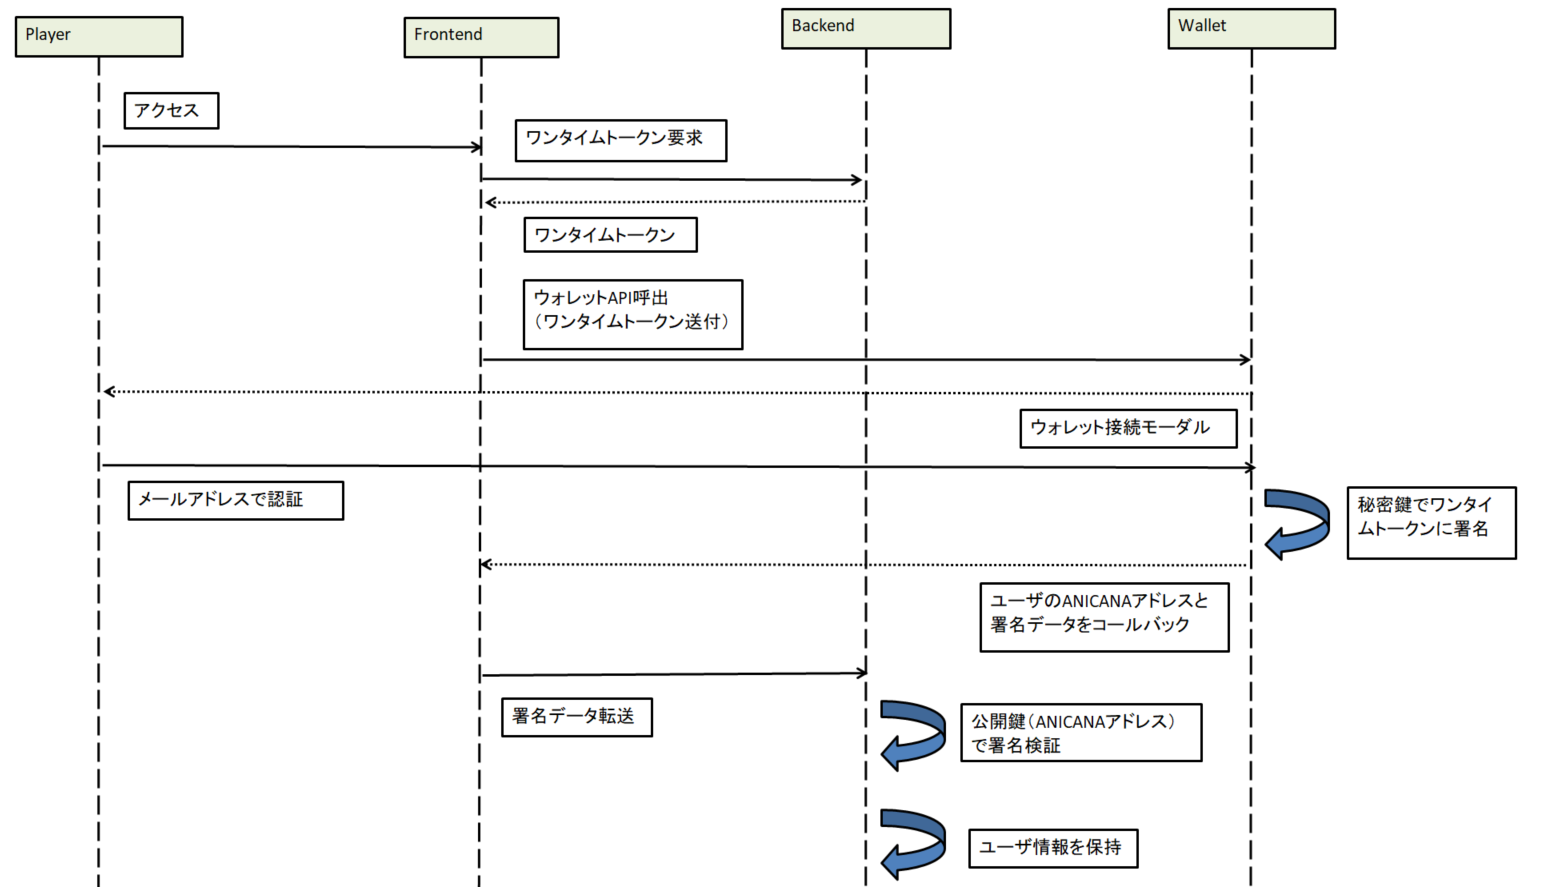
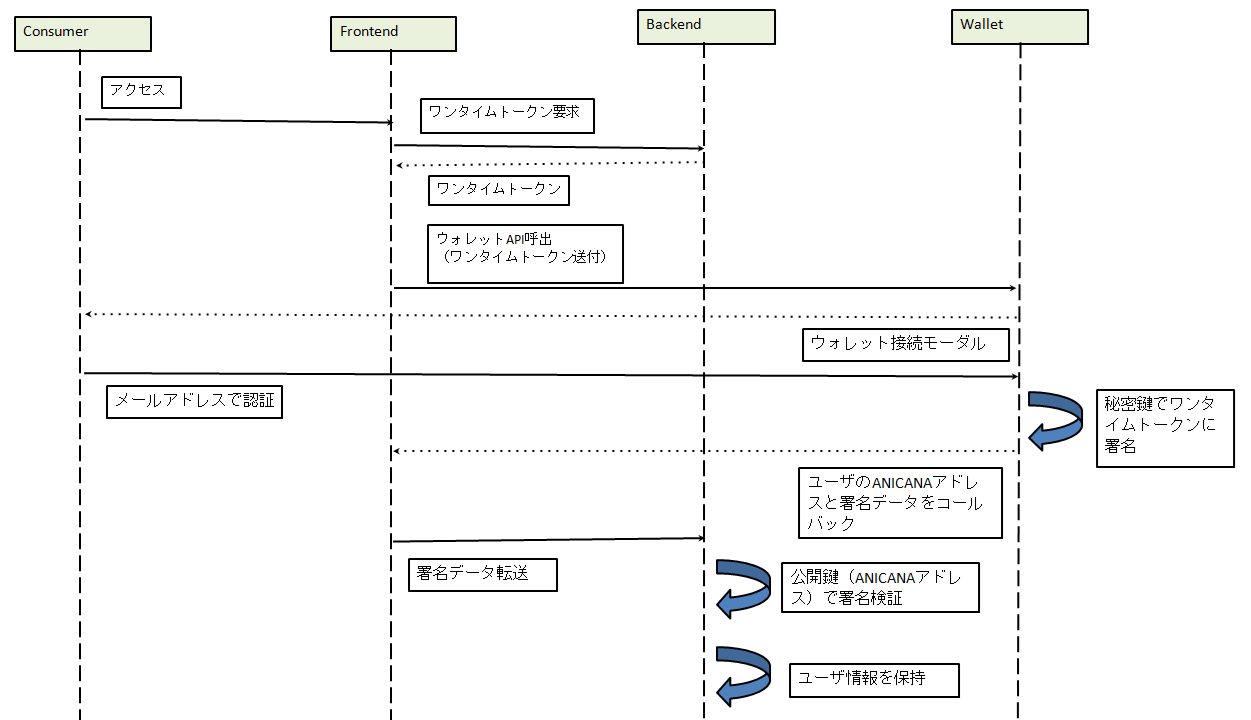
[update]
以下のページを追加
　・Boloodline
以下のページの文言を修正（プレイヤー⇒コンシューマ）
　・ウォレット接続に関する高度なセキュリティ設定
　・PERSONA概要
　・ANICANA life cycle
　・ARCANA生成手順
　・DrawChainの導入
　・吸収（Absorb）

diff --git a/source/contract-info/bloodline.rst b/source/contract-info/bloodline.rst
@@ -1,0 +1,160 @@
+###########################
+Bloodline
+###########################
+
+概要
+============================================
+BloodlineとはARCANAが所属する血統であり、全てのARCANAは100の血統(Bloodline)のいずれかに属する。
+Bloodlineには始祖があり、始祖のShardからEgg→ARCANA→Shardの循環を経て、下記の図のように継承されている。
+新たに生成されるARCANAは、生まれたEGGに使用された2種類のShardのいずれかのBloodlineをランダムに継承する。
+
+.. image:: ../img/bloodline/bloodline.png
+
+情報取得
+============================================
+Bloodline情報はBloodlineコントラクトを参照することで取得できる。
+Bloodlineコントラクトは以下のインタフェースを持つ。
+
+
+Bloodlineの情報を取得(Bloodline.sol)::
+
+    // 指定したbloodlineのid、名称、所属するARCANA数を返す
+    // @param bloodlineID
+    // @return origin bloodlineのid
+    //         nArcanas 所属するARCANA数
+    //         name bloodlineの名称
+    function bloodlineInfo(uint256 bloodlineID) public view returns(
+        uint256 origin,
+        uint256 nArcanas,
+        string memory name
+    )
+
+
+ARCANAが属するBloodlineを取得(Bloodline.sol)::
+
+    // getBloodline[arcanaID] でARCANAが所属するbloodlineIDを返す
+    // @param arcanaID
+    // @return bloodlineID
+    function getBloodline (uint256 arcanaID) public view returns(uint256 bloodlineID)
+
+
+特定のBloodlineに属するARCANAの一覧（既にburnされたARCANAを含む）を取得(Bloodline.sol)::
+
+    // 指定したbloodlineIDに所属するarcanaIDの配列を返す
+    // @param bloodlineID
+    // @param idx 開始index
+    // @param limit 取得数
+    // @return uint256[] memory arcanaIDの配列
+    function getBelongings(uint256 bloodlineID,uint256 idx, uint256 limit) public view returns(uint256[] memory)
+
+
+Bloodlineの一覧
+============================================
+
+.. csv-table::
+    :header-rows: 1
+    :align: center
+
+    "id", "名前","出展"
+    "1","ヤハウェ (Yahweh)","キリスト教、ユダヤ教"
+    "2","ゼウス (Zeus)","ギリシャ神話"
+    "3","インドラ (Indra)","ヒンドゥー教"
+    "4","アラー (Allah)","イスラム教"
+    "5","オーディン (Odin)","北欧神話"
+    "6","ブッダ (Buddha)","仏教"
+    "7","ヘラクレス (Heracles)","ギリシャ神話"
+    "8","ヴィシュヌ (Vishnu)","ヒンドゥー教"
+    "9","ヘラ (Hera)","ギリシャ神話"
+    "10","ユピテル (Jupiter)","ローマ神話"
+    "11","ガネーシャ (Ganesha)","ヒンドゥー教"
+    "12","オシリス (Osiris)","古代エジプト神話"
+    "13","アポロン (Apollo)","ギリシャ神話"
+    "14","マハーカーラ (Mahakala)","ボン教、仏教"
+    "15","ハリ (Hari)","ヒンドゥー教"
+    "16","ニンフ (Ninhursag)","シュメール神話"
+    "17","ペルセポネー (Persephone)","ギリシャ神話"
+    "18","ククulkan (Kukulkan)","マヤ神話"
+    "19","アヌビス (Anubis)","古代エジプト神話"
+    "20","ロキ (Loki)","北欧神話"
+    "21","メデューサ (Medusa)","ギリシャ神話"
+    "22","クリシュナ (Krishna)","ヒンドゥー教"
+    "23","ピシュタクス (Ptah)","古代エジプト神話"
+    "24","シヴァ (Shiva)","ヒンドゥー教"
+    "25","アテナ (Athena)","ギリシャ神話"
+    "26","ディオニュソス (Dionysus)","ギリシャ神話"
+    "27","ヴァールナ (Varuna)","ヒンドゥー教"
+    "28","イシス (Isis)","古代エジプト神話"
+    "29","ティルーンダヴァーユ (Tirunavayi)","タミルの神々"
+    "30","ガネーシャ (Ganesha)","ヒンドゥー教"
+    "31","セレス (Ceres)","ローマ神話"
+    "32","ガネーシャ (Ganesha)","ヒンドゥー教"
+    "33","ペレ (Pele)","ハワイアン神話"
+    "34","ティワタワカ (Tiwa-tiwa-k'a)","ホピ族の神"
+    "35","ペリクレス (Pericles)","ギリシャ神話"
+    "36","ユピテル (Jupiter)","ローマ神話"
+    "37","グウィネヴィア (Guinevere)","アーサー王伝説"
+    "38","アクロポリス (Acropolis)","ギリシャ神話"
+    "39","ローマヌス (Romulus)","ローマ神話"
+    "40","バルドル (Balder)","北欧神話"
+    "41","テスカトリポカ (Tezcatlipoca)","アステカ神話"
+    "42","アーマディリョ (Armadillo)","アマゾンの神話"
+    "43","クンビラ (Kunbira)","アボリジニの神話"
+    "44","イザナミ (Izanami)","日本の神話"
+    "45","マアト (Ma'at)","古代エジプト神話"
+    "46","ヴァイシュリャ (Vaishravana)","ブッダ教"
+    "47","シャクティ (Shakti)","ヒンドゥー教"
+    "48","ガラテア (Galatea)","ギリシャ神話"
+    "49","ハチマン (Hachiman)","日本の神話"
+    "50","ティランギアリンガリ (Tirangirringali)","アボリジニの神話"
+    "51","パン (Pan)","ギリシャ神話"
+    "52","マヌ (Manu)","ヒンドゥー教"
+    "53","ティランティア (Tlaloc)","アステカ神話"
+    "54","ヘパイストス (Hephaestus)","ギリシャ神話"
+    "55","インタワ (Inti)","インカ神話"
+    "56","プトレマイオス (Ptolemy)","ギリシャ神話"
+    "57","ヴァユ (Vayu)","ヒンドゥー教"
+    "58","グクマッツ (Gucumatz)","マヤ神話"
+    "59","フリッグ (Frigg)","北欧神話"
+    "60","クンバク (Kumbhak)","シク教"
+    "61","ティワ (Tiwa)","ホピ族の神"
+    "62","キリスト (Christ)","キリスト教"
+    "63","ユグ (Yug)","ヒンドゥー教"
+    "64","ワンダナ (Wandana)","アボリジニの神話"
+    "65","ヘストィア (Hestia)","ギリシャ神話"
+    "66","ガネーシャ (Ganesha)","ヒンドゥー教"
+    "67","ハウマイオムイア (Haumia-tiketike)","マオリ族の神"
+    "68","マハヤナ (Mahayana)","仏教"
+    "69","ゼラス (Zelus)","ギリシャ神話"
+    "70","タナロス (Tantalus)","ギリシャ神話"
+    "71","ユピテル (Jupiter)","ローマ神話"
+    "72","ヴァヤーブ (Vayu)","ヒンドゥー教"
+    "73","キウィランギ (Kiwirrkurra)","アボリジニの神話"
+    "74","サラスワティ (Saraswati)","ヒンドゥー教"
+    "75","ヒロクド (Hirokud)","アイヌ族の神"
+    "76","ショーロシ (Shorosh)","ファーシー教"
+    "77","オロクン (Olokun)","ヨルバ族の神話"
+    "78","アグニ (Agni)","ヒンドゥー教"
+    "79","セブ (Seb)","古代エジプト神話"
+    "80","カーン (Kan)","マヤ神話"
+    "81","クトゥルフ (Cthulhu)","フィクション（H.P. Lovecraft の作品）"
+    "82","イザナギ (Izanagi)","日本の神話"
+    "83","タウラマオム (Ta'aroa)","ポリネシア神話"
+    "84","アヌ (Anu)","シュメール神話"
+    "85","プラネート (Planeto)","ローマ神話"
+    "96","テュケー (Tyche)","ギリシャ神話"
+    "87","ユピテル (Jupiter)","ローマ神話"
+    "88","ウラノス (Uranus)","ギリシャ神話"
+    "89","ベロナ (Bellona)","ローマ神話"
+    "90","マリカリ (Marikari)","アボリジニの神話"
+    "91","イシュタル (Ishtar)","バビロニア神話"
+    "92","ヒンドロ (Hindro)","ジャワの神話"
+    "93","アヌビス (Anubis)","エジプト神話"
+    "94","グワーニン・マイン (Gwani'n Myin)","チェロキー族の神話"
+    "95","アラケイ (Arak-aye)","アボリジニの神話"
+    "96","ウトゥ (Utu)","シュメール神話"
+    "97","イリーリュリア (Illyria)","ギリシャ神話"
+    "98","ヒカリ (Hikari)","神道"
+    "99","ヘカテ (Hecate)","ギリシャ神話"
+    "100","ゼウス (Zeus)","ギリシャ神話"
+
+

diff --git a/source/game-development/persona.rst b/source/game-development/persona.rst
@@ -3,7 +3,7 @@ PERSONA概要
 ###########################
 
 | PERSONA（ペルソナ）は、ANICANA上で特定のスマートコントラクトを発動させる触媒のような役割を持ったNFTである。スマートコントラクトは ERC721 に準拠する。
-| 主にパブリッシャーが生成し、プレイヤー（コンテンツユーザー）に対して提供される。
+| 主にパブリッシャーが生成し、コンシューマ（コンテンツユーザー）に対して提供される。
 | 提供方法は、有償で提供される場合もあればイベントの特典として提供される場合もある。
 | PERSONAの生成には、SQUAREとANIMAが必須となる。
 | PERSONAには内部値があり、ペルソナを生成する際にValidatorがその内部値を設定することができる。
@@ -18,7 +18,7 @@ PERSONAの成長 / オブジェクトの吸収（Absorb）コントラクト
 | 
 | PERSONAの持つ内部値のうち FORCE（フォース）と呼ばれる値の高いPERSONAが、FORCEの低い値のARCANAを基本的な吸収対象とする。
 | FORCE の低いPERSONAがFORCEの高いARCANAを吸収する場合、吸収する側のPERSONAの内部値が劣化する可能性が高くなるという性質を持つ。
-| プレイヤーは、オブジェクトの吸収による変化を楽しむことができ、PERSONAそのものの収集や高い能力値を持ったPERSONAをセカンダリーマーケットプレイスで販売するといった活用も可能になる。
+| コンシューマは、オブジェクトの吸収による変化を楽しむことができ、PERSONAそのものの収集や高い能力値を持ったPERSONAをセカンダリーマーケットプレイスで販売するといった活用も可能になる。
 
 -------------------------------------------------------------------------------------------------------------------------------------------------------------------------------------------------------------------
 

diff --git a/source/change-history/change-history.rst b/source/change-history/change-history.rst
@@ -7,6 +7,16 @@
     :align: center
 
     "No", "更新日", "バージョン", "変更内容"
+    "14.", "2024/02/13", "1.3.0", "| 以下のページを追加
+    | 　・Boloodline
+    | 以下のページの文言を修正（プレイヤー⇒コンシューマ）
+    | 　・ウォレット接続に関する高度なセキュリティ設定
+    | 　・PERSONA概要
+    | 　・ANICANA life cycle
+    | 　・ARCANA生成手順
+    | 　・DrawChainの導入
+    | 　・吸収（Absorb）
+    | 　"
     "13.", "2024/01/05", "1.2.0", "| 以下のページを追加
     | 　・パブリッシャー向けクイックスタート
     | 　・アフィリエイト機能

diff --git a/source/game-development/main-environment.rst b/source/game-development/main-environment.rst
@@ -53,6 +53,7 @@
     DrawCountLimitter,          0x6d8Eb682dF8AC49A418a92Cba35b053e24735237
     DrawPersonaLimitter,        0xd05634254e70b4290368901831D753D6fB4f3eca
 
+
 -------------------------------------------------------------------
 
 -------------------------

diff --git a/source/index.rst b/source/index.rst
@@ -93,6 +93,7 @@ ANICANA Technical Documents
    /contract-info/calculate-genes
    /contract-info/decomposition
    /contract-info/attributes
+   /contract-info/bloodline
 
 .. toctree::
    :maxdepth: 2
